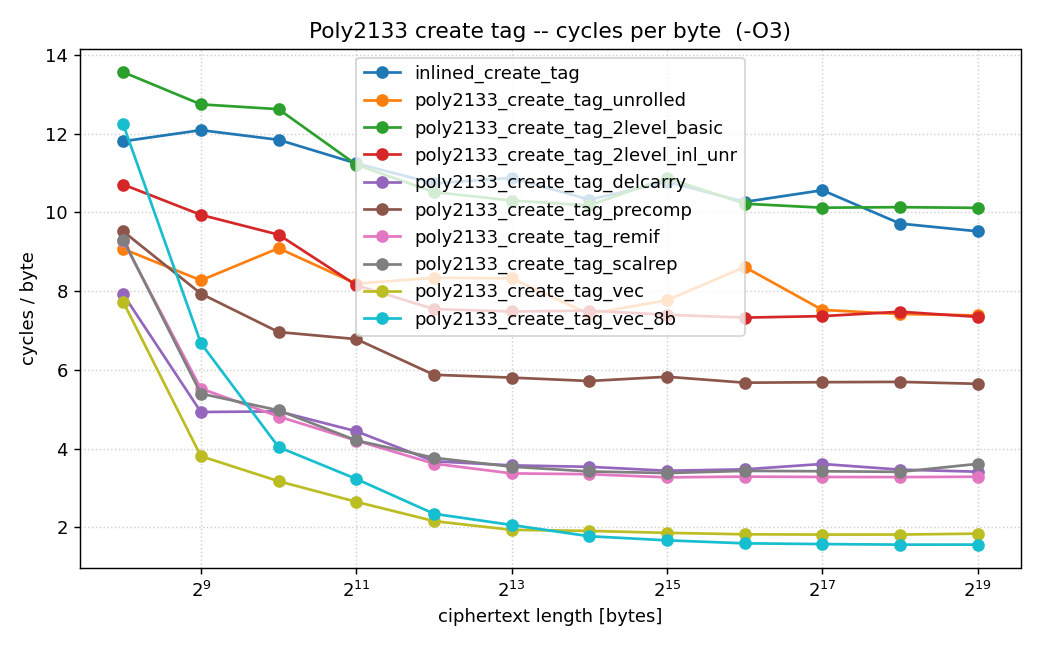
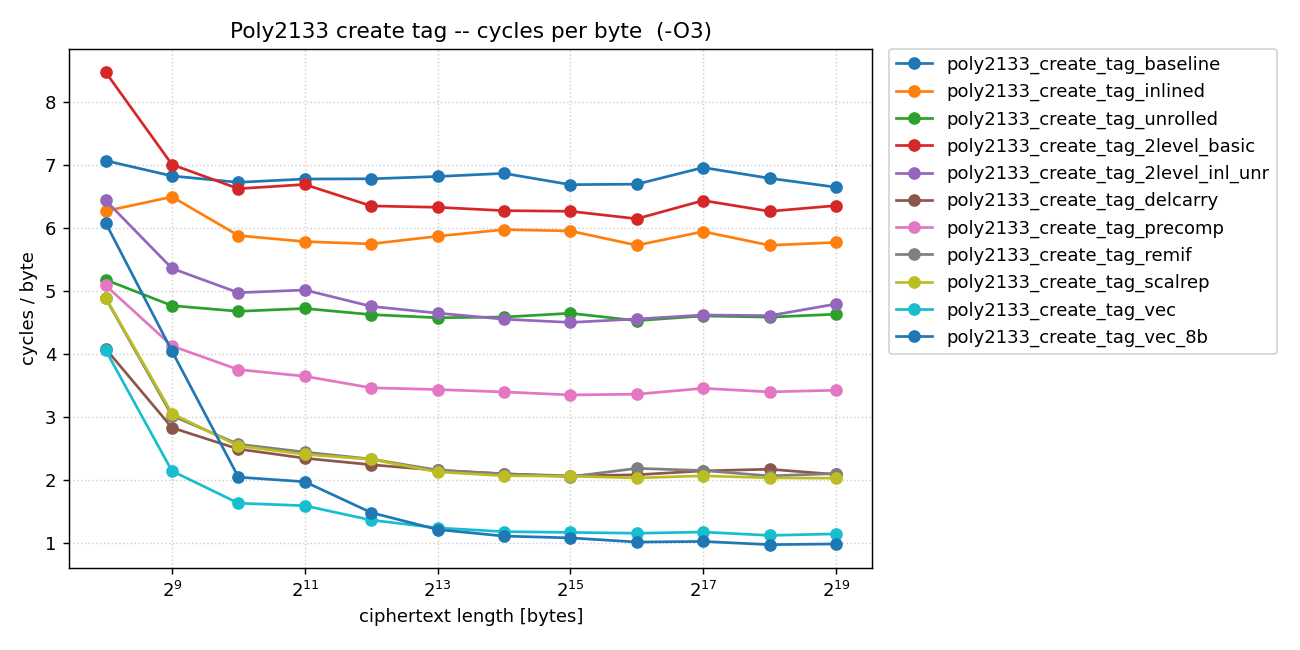
feat: also added plotting script for poly1305 and fixed some minor stuff for poly2133

diff --git a/time/poly1305/plot_poly1305_benchmarks.py b/time/poly1305/plot_poly1305_benchmarks.py
@@ -1,10 +1,10 @@
 #!/usr/bin/env python3
-"""Plot Poly2133 benchmark CSVs produced by `run_poly2133_benchmarks.py`.
+"""Plot Poly1305 benchmark CSVs produced by `run_poly1305_benchmarks.py`.
 
-For every `plots/poly2133_create_tag_<level>.csv`, produce three plots:
-  * `poly2133_create_tag_<level>_cycles.png` -- raw cycles vs ctxt_len   (log-log)
-  * `poly2133_create_tag_<level>_cpb.png`    -- cycles per byte vs size  (semi-log x)
-  * `poly2133_create_tag_<level>_roofline.png` -- roofline plot
+For every `plots/poly1305_create_tag_<level>.csv`, produce three plots:
+  * `poly1305_create_tag_<level>_cycles.png` -- raw cycles vs ctxt_len   (log-log)
+  * `poly1305_create_tag_<level>_cpb.png`    -- cycles per byte vs size  (semi-log x)
+  * `poly1305_create_tag_<level>_roofline.png` -- roofline plot
 """
 
 import csv
@@ -18,7 +18,7 @@ import numpy as np
 import matplotlib.pyplot as plt
 
 PLOTS_DIR = os.path.join(os.path.dirname(__file__), "plots")
-CSV_GLOB = os.path.join(PLOTS_DIR, "poly2133_create_tag_*.csv")
+CSV_GLOB = os.path.join(PLOTS_DIR, "poly1305_create_tag_*.csv")
 # set machine specific parameters
 PEAK_PERF = 4  # in ops/cycle
 PEAK_PERF_VEC = 24  # in ops/cycle for vectorized code
@@ -56,11 +56,11 @@ def plot_one(csv_path: str) -> None:
     funcs = [c for c in data.keys() if c != "ctxt_len"]
 
     base = os.path.splitext(os.path.basename(csv_path))[0]
-    m = re.match(r"poly2133_create_tag_(\d+)", base)
+    m = re.match(r"poly1305_create_tag_(\d+)", base)
     opt_level = m.group(1) if m else "?"
 
     # Read ops data
-    ops_map = read_ops_csv(os.path.join(PLOTS_DIR, "poly2133_ops.csv"))
+    ops_map = read_ops_csv(os.path.join(PLOTS_DIR, "poly1305_ops.csv"))
 
     # Cycles vs size (log-log)
     fig, ax = plt.subplots(figsize=(10, 5))
@@ -70,7 +70,7 @@ def plot_one(csv_path: str) -> None:
     ax.set_yscale("log")
     ax.set_xlabel("ciphertext length [bytes]")
     ax.set_ylabel("cycles")
-    ax.set_title(f"Poly2133 create tag -- cycles vs size  (-O{opt_level})")
+    ax.set_title(f"Poly1305 create tag -- cycles vs size  (-O{opt_level})")
     ax.grid(True, which="both", linestyle=":", alpha=0.6)
     ax.legend(
     loc='upper left',
@@ -90,7 +90,7 @@ def plot_one(csv_path: str) -> None:
     ax.set_xscale("log", base=2)
     ax.set_xlabel("ciphertext length [bytes]")
     ax.set_ylabel("cycles / byte")
-    ax.set_title(f"Poly2133 create tag -- cycles per byte  (-O{opt_level})")
+    ax.set_title(f"Poly1305 create tag -- cycles per byte  (-O{opt_level})")
     ax.grid(True, which="both", linestyle=":", alpha=0.6)
     ax.legend(
     loc='upper left',
@@ -121,7 +121,7 @@ def plot_one(csv_path: str) -> None:
     
     for fn in funcs:
         sizes_array = np.array(sizes)
-        total_ops = ops_map[fn] * (sizes_array // 26)
+        total_ops = ops_map[fn] * (sizes_array // 16)
         op_intensity = total_ops / sizes_array
         ops_per_cycle = total_ops / data[fn]
         ax.scatter(op_intensity, ops_per_cycle, s=70, zorder=5, 

diff --git a/time/poly1305/main_tag_choose_len.cpp b/time/poly1305/main_tag_choose_len.cpp
@@ -3,31 +3,34 @@
 #include <string>
 #include <cstring>
 #include <functional>
+#include <fstream>
 #include "benchmark.h"
 #include "utils.h"
 #include "poly1305_tag_opt.h"
 
 void register_functions();
-void add_function(poly1305_create_tag_func f, std::string name);
+void add_function(poly1305_create_tag_func f, std::string name, int ops_per_block);
 
 static std::vector<poly1305_create_tag_func> userFuncs;
 static std::vector<std::string>        funcNames;
+static std::vector<int>                opsPerBlock;
 int numFuncs = 0;
 
-void add_function(poly1305_create_tag_func f, std::string name) {
+void add_function(poly1305_create_tag_func f, std::string name, int ops_per_block) {
     userFuncs.push_back(f);
     funcNames.push_back(name);
+    opsPerBlock.push_back(ops_per_block);
     numFuncs++;
 }
 
 void register_functions() {
-    add_function(&create_tag, "create_tag");
-    add_function(&inlined_create_tag, "inlined_create_tag");
-    add_function(&not_inlined_parallel_Horner_create_tag, "not_inlined_parallel_Horner_create_tag");
-    add_function(&inlined_parallel_Horner_create_tag, "inlined_parallel_Horner_create_tag");
-    add_function(&carry_delay, "carry_delay");
-    add_function(&inlined_carry_delay_parallel_Horner, "inlined_carry_delay_parallel_Horner");
-    add_function(&memory_vect_inlined_carry_delay_parallel_Horner, "vect_inlined_carry_delay_parallel_Horner");
+    add_function(&create_tag, "create_tag", 146);
+    add_function(&inlined_create_tag, "inlined_create_tag", 146);
+    add_function(&not_inlined_parallel_Horner_create_tag, "not_inlined_parallel_Horner_create_tag", 146);
+    add_function(&inlined_parallel_Horner_create_tag, "inlined_parallel_Horner_create_tag", 146);
+    add_function(&carry_delay, "carry_delay", 146);
+    add_function(&inlined_carry_delay_parallel_Horner, "inlined_carry_delay_parallel_Horner", 146);
+    add_function(&memory_vect_inlined_carry_delay_parallel_Horner, "vect_inlined_carry_delay_parallel_Horner", 146);
 }
 
 int main(int argc, char* argv[]) {
@@ -53,7 +56,11 @@ int main(int argc, char* argv[]) {
     }
 
     if (numFuncs == 0){
-        std::cout << "\nNo functions registered - nothing for driver to do\n";
+        std::cout << std::endl;
+        std::cout << "No functions registered - nothing for driver to do" << std::endl;
+        std::cout << "Register functions by calling register_func(f, name, ops_per_block)" << std::endl;
+        std::cout << "in register_funcs()" << std::endl;
+
         return 0;
     }
 
@@ -116,6 +123,14 @@ int main(int argc, char* argv[]) {
         std::cout << "," << perf_test(userFuncs[i], runner);
     }
     std::cout << "\n";
+
+    // Write ops to CSV
+    std::ofstream opsFile("plots/poly1305_ops.csv");
+    opsFile << "function_name,ops_per_block\n";
+    for (int i = 0; i < numFuncs; i++) {
+        opsFile << funcNames[i] << "," << opsPerBlock[i] << "\n";
+    }
+    opsFile.close();
 
     free(data);
     return 0;

diff --git a/time/poly2133/main_tag_choose_len.cpp b/time/poly2133/main_tag_choose_len.cpp
@@ -10,7 +10,7 @@
 
 
 void register_functions();
-void add_function(poly2133_create_tag_func f, std::string name);
+void add_function(poly2133_create_tag_func f, std::string name, int ops_per_block);
 
 
 static std::vector<poly2133_create_tag_func> userFuncs;
@@ -26,7 +26,8 @@ void add_function(poly2133_create_tag_func f, std::string name, int ops_per_bloc
 }
 
 void register_functions() {
-    add_function(&poly2133_create_tag_inlined, "inlined_create_tag", 1057);
+    add_function(&poly2133_create_tag_baseline, "poly2133_create_tag_baseline", 1057);
+    add_function(&poly2133_create_tag_inlined, "poly2133_create_tag_inlined", 1057);
     add_function(&poly2133_create_tag_unrolled, "poly2133_create_tag_unrolled", 950);
     add_function(&poly2133_create_tag_2level_basic, "poly2133_create_tag_2level_basic", 1226);
     add_function(&poly2133_create_tag_2level_inl_unr, "poly2133_create_tag_2level_inl_unr", 1043);
@@ -132,9 +133,6 @@ int main(int argc, char* argv[]) {
         opsFile << funcNames[i] << "," << opsPerBlock[i] << "\n";
     }
     opsFile.close();
-    
-    free(data);
-    return 0;
 
     free(data);
     return 0;

diff --git a/time/poly2133/main_create_tag.cpp b/time/poly2133/main_create_tag.cpp
@@ -41,7 +41,8 @@ void add_function(poly2133_create_tag_func f, std::string name) {
 }
 
 void register_functions() {
-    add_function(&poly2133_create_tag_inlined, "inlined_create_tag");
+    add_function(&poly2133_create_tag_baseline, "poly2133_create_tag_baseline");
+    add_function(&poly2133_create_tag_inlined, "poly2133_create_tag_inlined");
     add_function(&poly2133_create_tag_unrolled, "poly2133_create_tag_unrolled");
     add_function(&poly2133_create_tag_2level_basic, "poly2133_create_tag_2level_basic");
     add_function(&poly2133_create_tag_2level_inl_unr, "poly2133_create_tag_2level_inl_unr");
